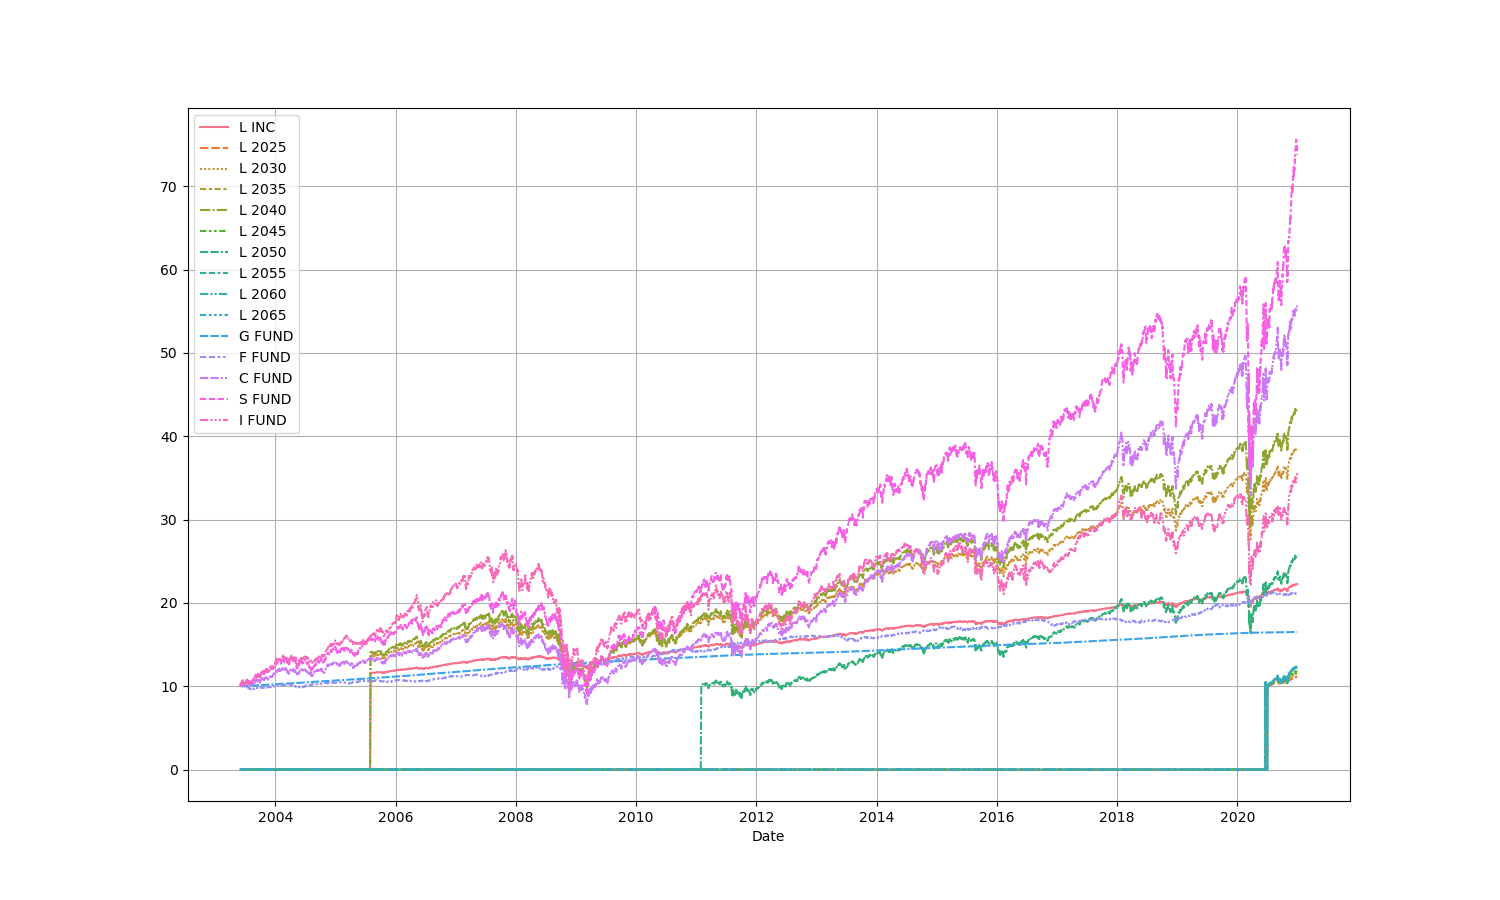
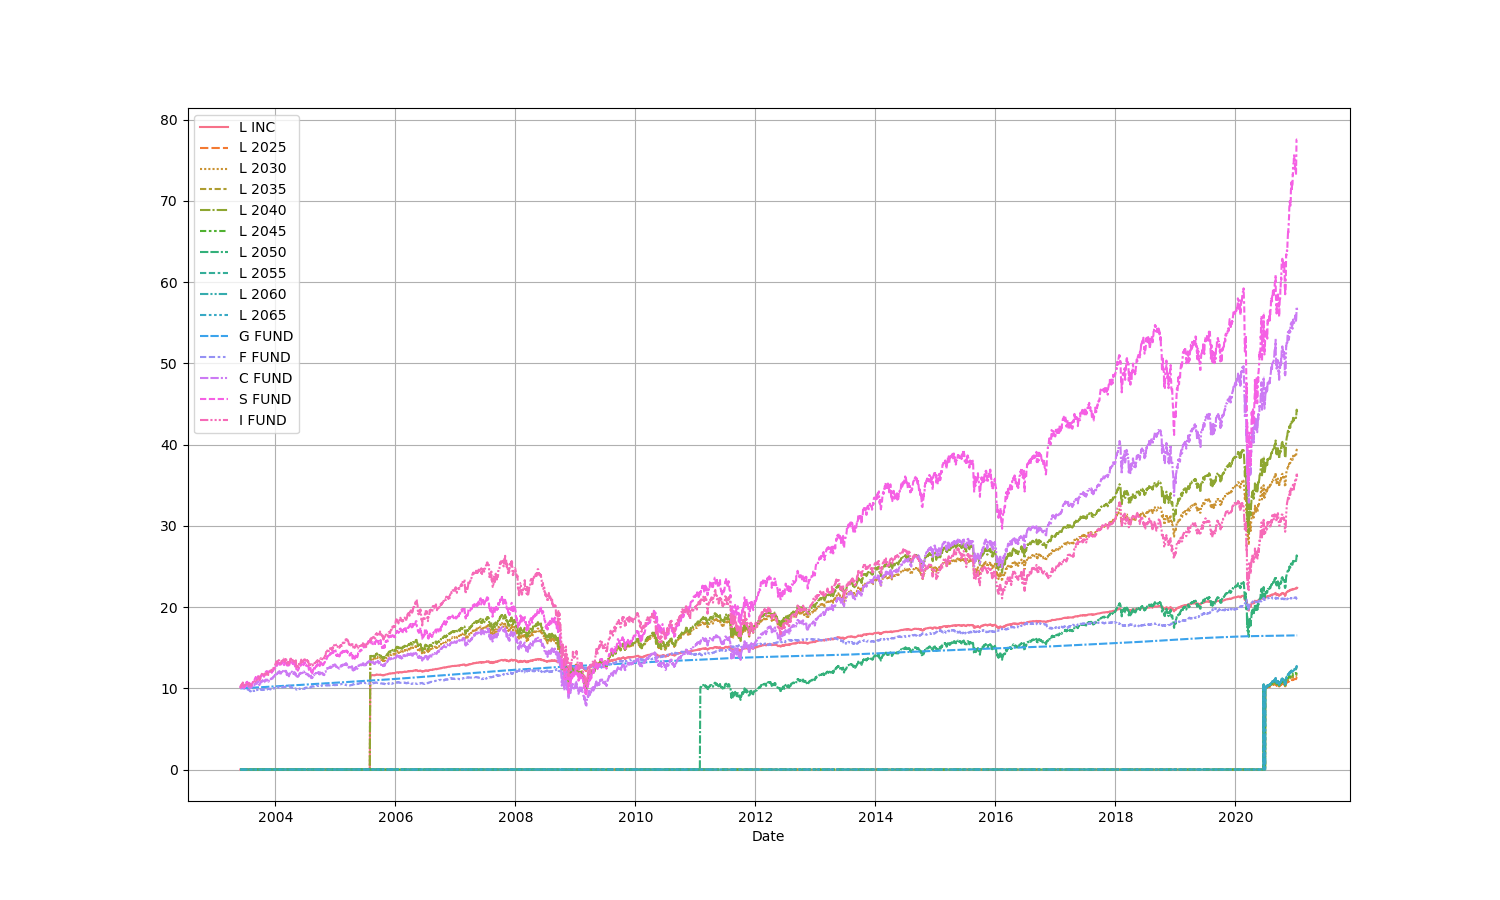
updated to current prices

diff --git a/TSP_analysis.py b/TSP_analysis.py
@@ -41,7 +41,7 @@ def plot_history(data):
     """ Plot the share price history data from 2014 to current. """
     plt.figure(figsize=(15, 9))
     plt.grid()
-    sns.color_palette("bright")
+    sns.color_palette("deep")
     sns.lineplot(data=data)
     plt.savefig("share_prices.png")
     plt.show()
@@ -81,22 +81,25 @@ def find_what_if_redis(ranges, redistribution, current_balance, current_shares, 
         for days in [15, 30, 280, len(prices_history)]:
             temp.append(calculate_futures(current_balance, current_shares, prices_history, days, redis))
         df = df.append(pd.Series(temp, index=df.columns), ignore_index=True)
-    df = df.set_index('Redistribution')
+    return df.set_index('Redistribution')
 
+
+def plot_what_if(df):
     """ Plot the share price history data from 2014 to current. """
     plt.figure(figsize=(15, 9))
-    plt.grid()
-    sns.color_palette("bright")
+    plt.rc('axes', axisbelow=True)
+    plt.grid(axis='y')
     width = 0.2
     plt.bar(df.index - width*1.5, df['15 days'], width)
     plt.bar(df.index - width/2, df['30 days'], width)
     plt.bar(df.index + width/2, df['280 days'], width)
     plt.bar(df.index + width*1.5, df['Over All Time'], width)
+    plt.xticks(np.arange(min(df.index), max(df.index) + 1, 1))
+    plt.xlabel('Redistribution')
+    plt.ylabel('Gain/Loss ($)')
     plt.legend(['15 days', '30 days', '280 days', 'Over All Time'])
-    # plt.savefig("share_prices.png")
+    plt.savefig("redistribution.png")
     plt.show()
-
-    return df
 
 
 def monthly_gain_loss(current_data):
@@ -115,7 +118,7 @@ def monthly_gain_loss(current_data):
 
 def main():
     prices_history, contrib_shares, current_shares, current_fund_value, current_balance = import_data()
-    # plot_history(prices_history)
+    plot_history(prices_history)
     print("Current total fund value:  $%.2f" % current_balance)
 
     # Test different distributions to see the possible gains/losses in switching to them, using the number code:
@@ -140,9 +143,9 @@ def main():
 
     ranges = [15, 30, 280, len(prices_history)]
     df = find_what_if_redis(ranges, redistribution, current_balance, current_shares, prices_history)
+    plot_what_if(df)
     print('\n\"What-if\" Resistribution Gains and Losses')
     print(df)
-
 
     gain_loss = monthly_gain_loss(prices_history)
     print('\nMonthly Gains and Losses')
